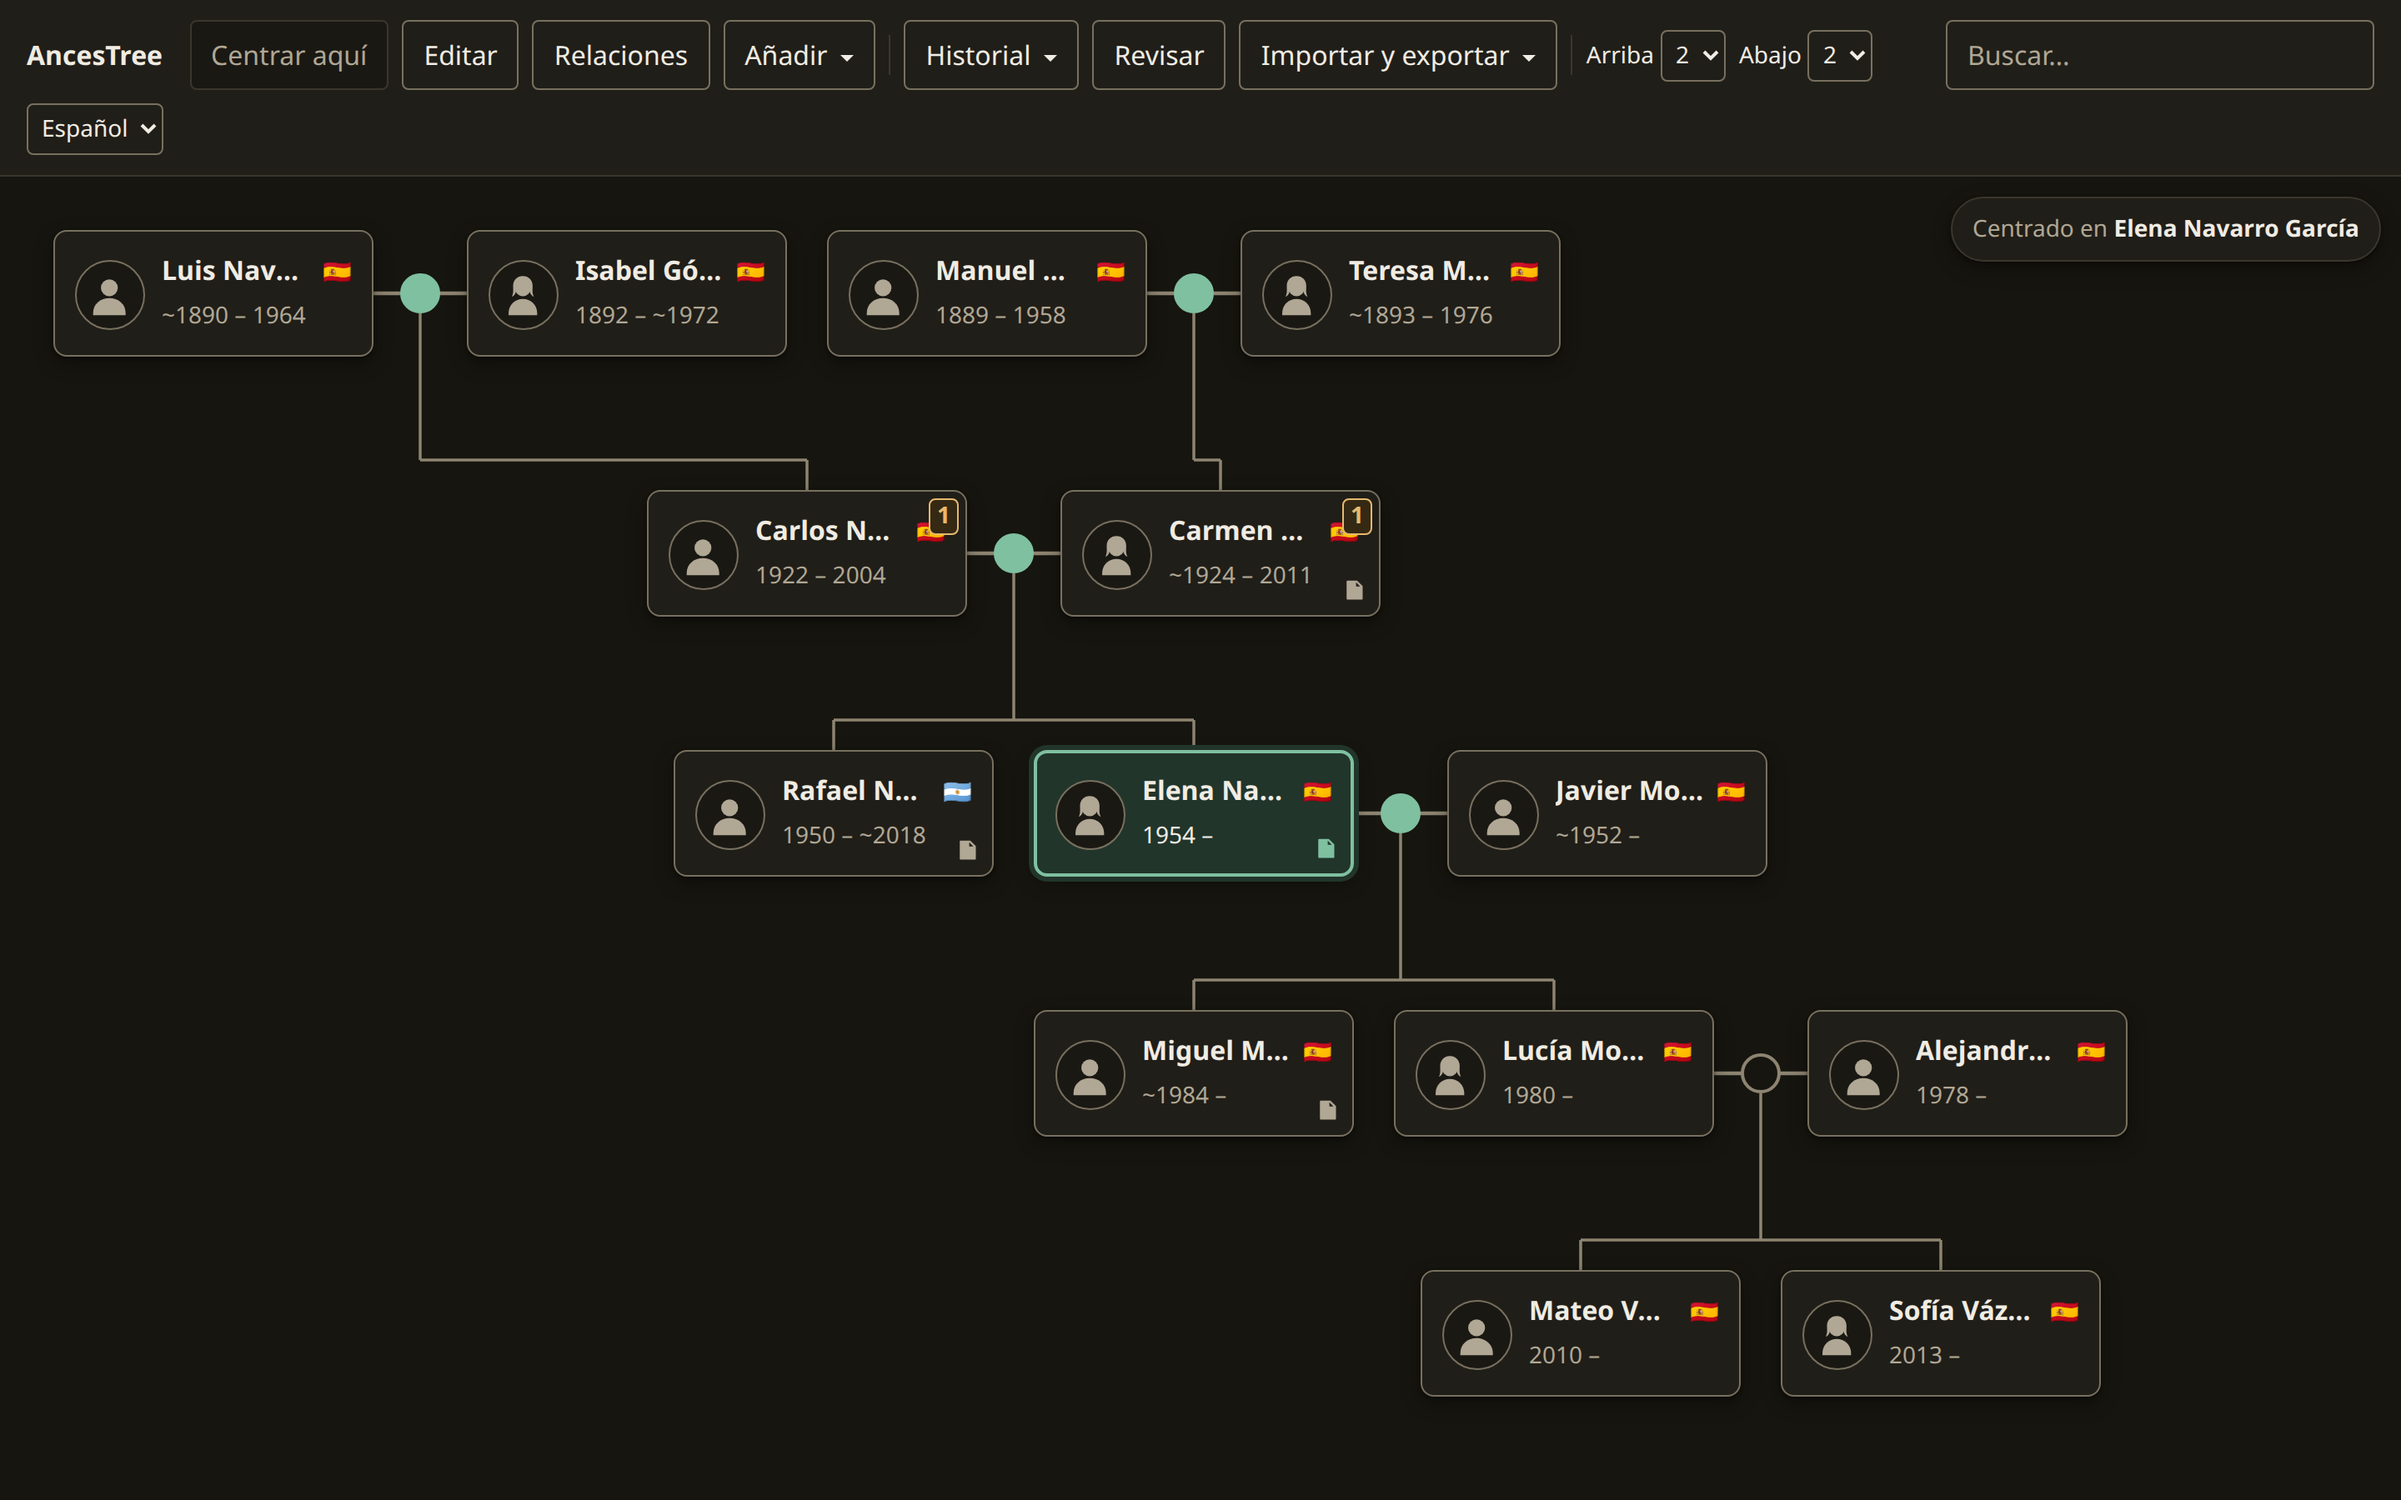
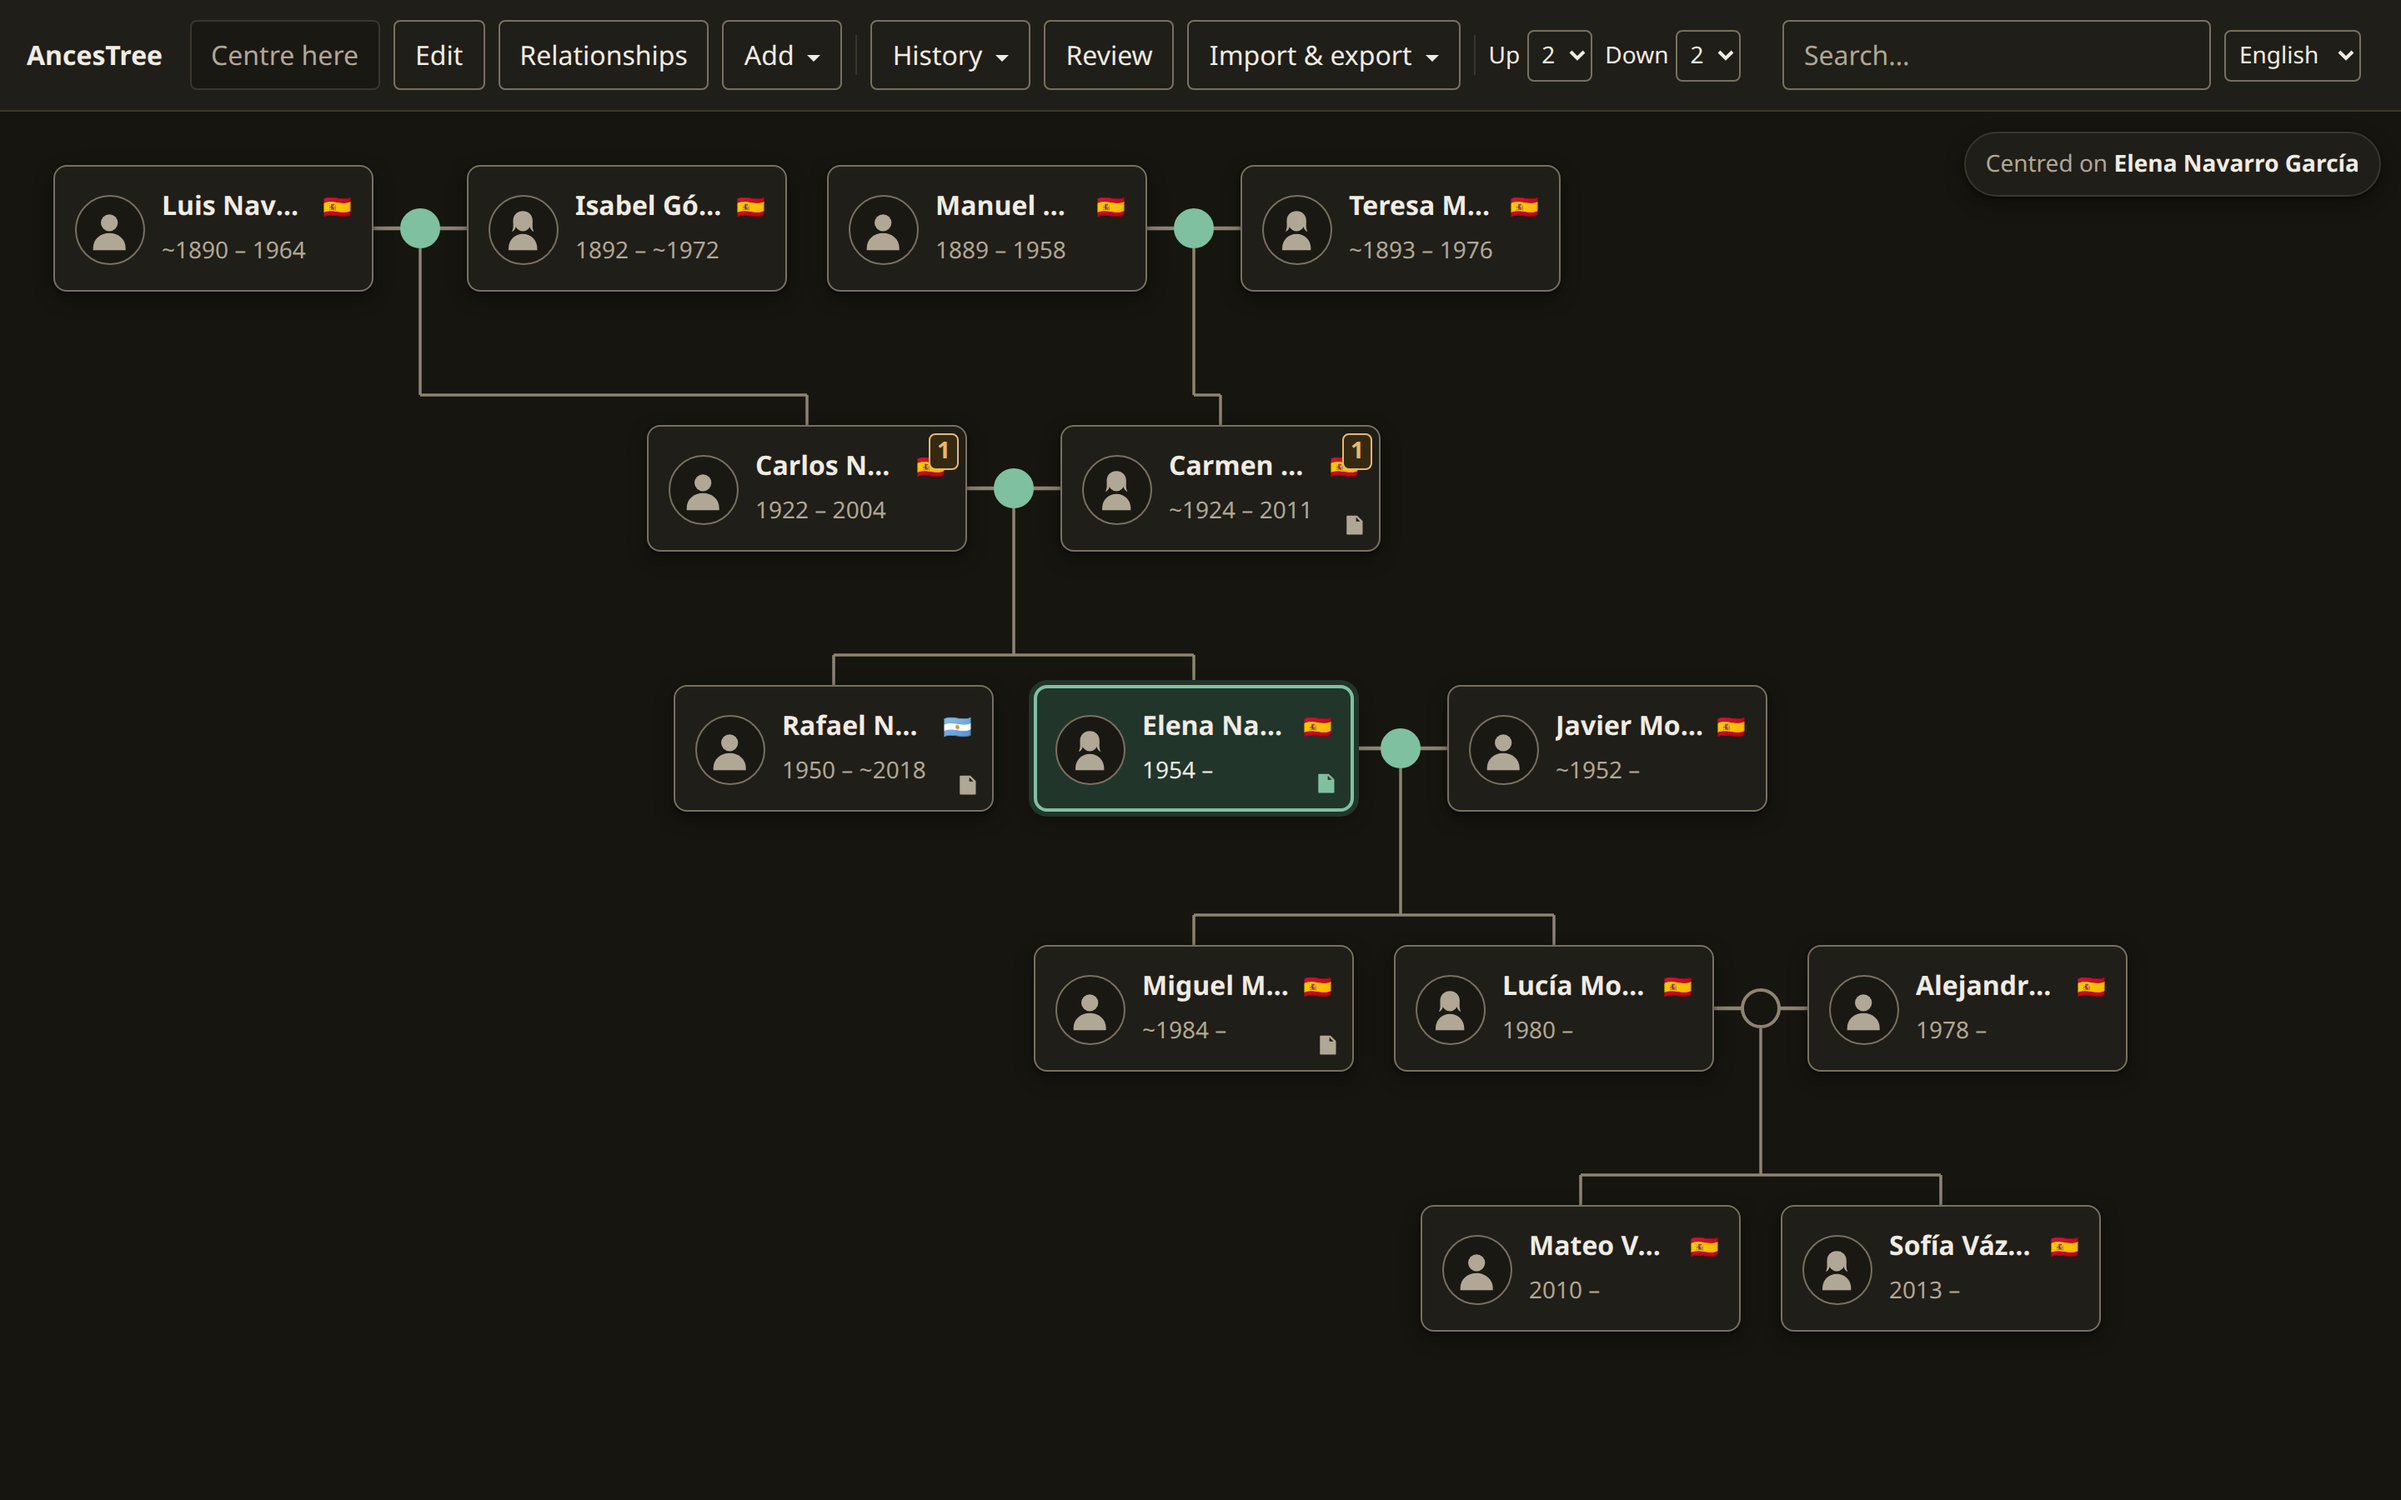
docs: use English screenshots in README.md and Spanish screenshots in README.es.md

diff --git a/src/ui/components/country-search.js b/src/ui/components/country-search.js
@@ -1,5 +1,5 @@
 import { el, setChildren } from '../dom.js';
-import { S } from '../../config/strings.js';
+import { S, locale } from '../../config/strings.js';
 import { countriesByName, countryFlag } from '../../domain/model/countries.js';
 import { supportsFlagEmoji } from '../flag-support.js';
 import { base, sheet } from '../styles/sheets.js';
@@ -40,7 +40,7 @@ export class CountrySearch extends HTMLElement {
     const flags = supportsFlagEmoji();
     this.#countries = [
       { code: '', name: S.editor.noNationality, label: S.editor.noNationality },
-      ...countriesByName().map(({ code, name }) => ({
+      ...countriesByName(locale).map(({ code, name }) => ({
         code,
         name,
         label: flags ? `${countryFlag(code)}  ${name}` : `${name}  (${code})`,

diff --git a/src/ui/components/person-card.js b/src/ui/components/person-card.js
@@ -188,7 +188,7 @@ export class PersonCard extends HTMLElement {
       'aria-label',
       [
         name,
-        countryName(person.nationality),
+        countryName(person.nationality, locale),
         lifespan,
         person.notes && S.card.hasNote,
         docText,
@@ -243,7 +243,7 @@ export class PersonCard extends HTMLElement {
       class: flag ? 'flagchip' : 'codechip',
       text: flag || code,
       dataset: flag ? {} : { country: code },
-      attrs: { title: countryName(code), 'aria-hidden': 'true' },
+      attrs: { title: countryName(code, locale), 'aria-hidden': 'true' },
     });
   }
 

diff --git a/src/ui/components/person-search.css b/src/ui/components/person-search.css
@@ -1,7 +1,7 @@
 :host {
   position: relative;
   display: block;
-  min-width: 14rem;
+  min-width: 11rem;
 }
 
 input {

diff --git a/README.es.md b/README.es.md
@@ -22,16 +22,16 @@ Sin cuentas · Sin nube · Sin suscripciones · Cero dependencias de runtime
 
 <div align="center">
   <picture>
-    <source media="(prefers-color-scheme: dark)" srcset="docs/assets/hero-tree-dark.png" />
-    <source media="(prefers-color-scheme: light)" srcset="docs/assets/hero-tree-light.png" />
-    <img alt="Vista del árbol genealógico multigeneracional en AncesTree" src="docs/assets/hero-tree-light.png" width="100%" />
+    <source media="(prefers-color-scheme: dark)" srcset="docs/assets/hero-tree-dark.es.png" />
+    <source media="(prefers-color-scheme: light)" srcset="docs/assets/hero-tree-light.es.png" />
+    <img alt="Vista del árbol genealógico multigeneracional en AncesTree" src="docs/assets/hero-tree-light.es.png" width="100%" />
   </picture>
   <p><em>5 generaciones renderizadas en una sola vista con doble apellido español, fechas históricas difusas, filiación adoptiva y detección automática de consanguinidad. <strong>Pulsa «Probar con una familia de ejemplo» en la pantalla de bienvenida para explorarlo en 1 clic.</strong></em></p>
 </div>
 
-|                                    Editor de Persona y Fechas Históricas Difusas                                     |                                       Revisión del Archivo y Detección de Consanguinidad                                       |
-| :------------------------------------------------------------------------------------------------------------------: | :----------------------------------------------------------------------------------------------------------------------------: |
-| <img src="docs/assets/person-editor.png" alt="Editor de persona con dos apellidos y rango de fechas" width="100%" /> | <img src="docs/assets/review-panel.png" alt="Panel de revisión mostrando detección de matrimonio consanguíneo" width="100%" /> |
+|                                      Editor de Persona y Fechas Históricas Difusas                                      |                                        Revisión del Archivo y Detección de Consanguinidad                                         |
+| :---------------------------------------------------------------------------------------------------------------------: | :-------------------------------------------------------------------------------------------------------------------------------: |
+| <img src="docs/assets/person-editor.es.png" alt="Editor de persona con dos apellidos y rango de fechas" width="100%" /> | <img src="docs/assets/review-panel.es.png" alt="Panel de revisión mostrando detección de matrimonio consanguíneo" width="100%" /> |
 
 ---
 
